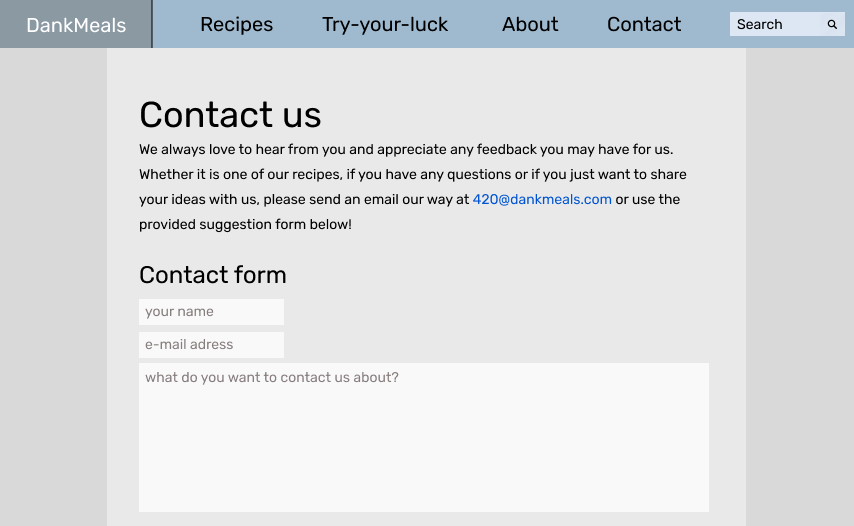
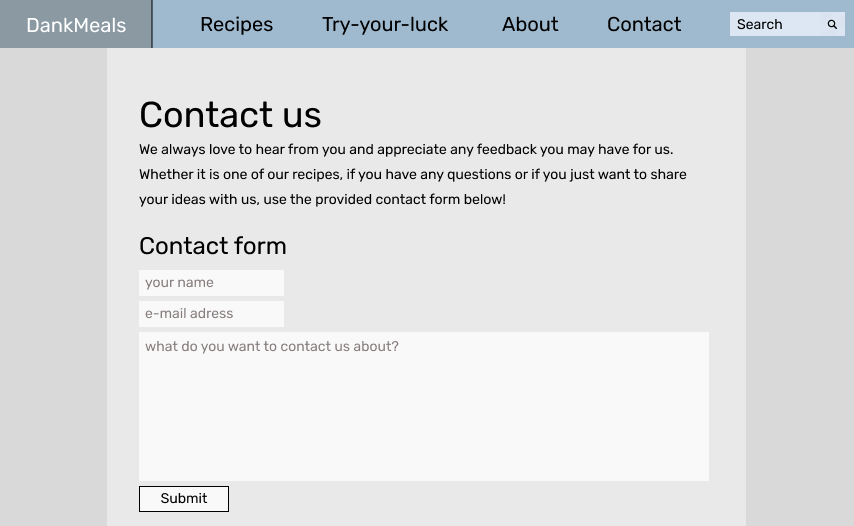
Many changes to content and fixed mockups

diff --git a/deliverable_P2/p2.html b/deliverable_P2/p2.html
@@ -100,14 +100,15 @@
                 change the color to a darker shade so the user will immidiately understand
                 which subpage they navigate to before clicking. The recipe section will 
                 be a dropdown menu with the highlighted subpage will change to an even 
-                arker shade than on the navbar. The try-your-luck button will be a big 
+                darker shade than on the navbar. The try-your-luck button will be a big 
                 red button which encourages anyone to click it out of excitement.
                 These design choices are made to make the website look nice and make
-                it recognizable and easy to navigate. The mockups provided in later sections
-                 showcase all these stylistic elements.
+                it recognizable and easy to navigate.The mockups provided in later sections
+                showcase all these stylistic elements. A mockup of the navigation bar is shown in Figure 1. 
             </p>
             <img src = "img/mockups/navbar_dropdown.png" alt="Homepage" width=540px>
-
+                
+            <p style="margin-top: 5px;text-align:center;font-style: italic;">Figure 1: Mockup of navigation bar</p>
             <p>
                 Specific styling for the website:
             </p>
@@ -168,12 +169,12 @@
 
                 </li>
                 <li>
-                    Logo: The logo will be the leftmost element on the navbar
+                    Logo: The logo will be the leftmost element on the navbar.
                 </li>
                 <li>
                     Links: The logo will be a clickable link which takes the user to the home
                     page. The navbar will be made up of clickable links to respective pages,
-                    as will the dropdown menu
+                    as will the dropdown menu.
 
                 </li>
                 <li>
@@ -181,6 +182,9 @@
                     in the navbar will change the tab to a darker shade. Hovering over tabs in 
                     the dropdown menu will darken the shade even further.
 
+                </li>
+                <li>
+                    Title: In general, the titles for a page will start 60px from the bottom of the navbar
                 </li>
             </ul>
 
@@ -198,74 +202,131 @@
             <p> Each page will have a banner along the top of the page where it will be possible to navigate to other pages. </p>
             <ol>
                 <li> <h3> The homepage </h3> <!-- Add url extension for the page -->
-                    <img src = "img/mockups/homepage.png" alt="Homepage" width=540px>
+                
                     <p> The homepage is the first page the users sees upon entering the website.
-                    This page will contain the name "DankMeals" as well as a "meal-of-the-day" box with an image of the meal
-                    and an internal link to the recipe for that meal.</p>
+                        This page will contain a "Meal of the Day" with an image of the meal, 
+                        and an internal link to the recipe for that meal. A mockup of the page is shown in Figure 2. 
+                        The size of the image is 475x300px, and has a margin of 18px from the body.
+                        The name of the meal is a clickable link, which leads to the recipe. The recipe changes
+                        every day, where the possible recipes are the ones that exist on the web-page. They are looped
+                        through, so that they will repeat after all have been shown.
+                    </p>
 
-                    <p> Since the goal of the website is to get students to do more cooking at home while maintaining a busy schedule,
-                    the homepage should not be too cluttered or contain too much content. We opted for a minimalistic and clean homepage
-                    to make it as accesible as possible.</p></li>
+                    <p> Since the goal of the website is to get students to do more cooking at 
+                        home while maintaining a busy schedule,
+                        the homepage should not be too cluttered or contain too much content.
+                        We opted for a minimalistic and clean homepage
+                        to make it as accessible as possible. </p>
+                
+                    <img src = "img/mockups/homepage.png" alt="Mockup of homepage" width=540px>
+                    <p style="margin-top: 5px;text-align:center;font-style: italic;">Figure 2:
+                         Mockup of home page</p>
+
+                    </li>
+                    
 
                 <li>
                     <h3> About us </h3> <!-- Add url extension for the page -->
-                    <img src = "img/mockups/about.png" alt = "About us page" width = 540px>
-                    <p> The page about us will quite simply be about us, the project and its goals.</p>
+                    
+                    <p> The page about us will quite simply be about us, the project and its goals. 
+                        A mockup of this page is shown in Figure 3.
+                    </p>
 
-                    <p> The backstory of the project as well as its long-term goal, the different people involved and donors will all be included on this page.
-                        While the page itself will maintain a simple and clean look, there will be a significant amount of content on this pages
+                    <p> The backstory of the project as well as its long-term goal, the different
+                        people involved and donors will all be included on this page.
+                        While the page itself will maintain a simple and clean look, there
+                        will be a significant amount of content on this pages
                         compared to the homepage. </p>
+                    <img src = "img/mockups/about.png" alt = "Mockup of about us page" width = 540px>
+                    <p style="margin-top: 5px;text-align:center;font-style: italic;">Figure 3:
+                         Mockup of about us page</p>
                 </li>
 
                 <li>
                     <h3> Contact </h3> <!-- Add url extension for the page -->
-                    <img src="img/mockups/contact.png" alt="Contact us page" width = 540px>
-                    <p> There will be a form users can fill out with a message in order to contact us.</p>
+                    
+                    <p> This page contains a form users can fill out in 
+                        order to contact us. A mockup of the page is shown in Figure 4. The form elements are three text fields. There will be rules
+                        to forbid submitting with an empty field. After submission the user will get an alert saying 
+                         "Submission recieved".
+                    </p>
+
+                    <img src="img/mockups/contact.png" alt="Mockup of contact us page" width = 540px>
+                    <p style="margin-top: 5px;text-align:center;font-style: italic;">Figure 4: 
+                        Mockup of contact page</p>
                 </li>
 
                 <li>
                     <h3> Recipes </h3> <!-- Add url extension for the page -->
-                    <!-- Mockup picture goes here -->
-                    <p> The page for recipes will contain
-                        <ul>
-                            <li> links to the three different recipe "repositories", <!-- See below--> </li>
-                            <li> a link to a specialized contact form where users will be able to send in suggestions for recipes.</li>
-                        </ul>
-                    </p>
+                    <p> The page for recipes will contain links to the three different recipe "repositories", 
+                        as well as a link to a contact form where users will be able to send in suggestions for recipes.
+                        A mockup of this page is shown in Figure 6. Below the links to the "repositories" are images showing
+                        examples from related food. These images (which there are three of), are 200x200px. The links plus images
+                        will be places on the page such that they have equal amount of empty space between them. 
 
-                    <p> There will be explanations for what the subpages contain, i.e. what kinds of recipes the user can expect
-                        from the three recipe "repositories" and what the suggestions form is used for. </p>
+                    </p>
+                    
+                    <img src="img/mockups/recipe.png" alt="Mockup of recipes page" width = 540px>
+                     <p style="margin-top: 5px;text-align:center;font-style: italic;">Figure 6: 
+                            Mockup of recipes page</p>
+
+                </li>
+                <li>
+                    <h3>Recipe example</h3>
+                        <p>The recipe pages will contain a white box which contains the ingredients. The 
+                            height of the box fits the text of the ingredients. The width is 250px.
+                            The other part of the page is shifted to the right. An image of the finished meal will
+                            be 500px wide (the height can depend on the image's ratio). A mockup of this is shown in Figure 6.
+                            Inside the white box containing the ingredients, there will also be a text field where the user can enter
+                            how many persons the recipe should be for (4 is default). 
+                        </p>
+                        <p> The box with the ingredients should stay fixed on the page, even if one has to scroll down due to
+                            lengthy instructions.
+                        </p>
+                        <img src="img/mockups/recipe_example.png" alt="Mockup of recipe" width = 540px>
+                        <p style="margin-top: 5px;text-align:center;font-style: italic;">Figure 6: 
+                            Mockup of recipe example</p>
                 </li>
 
                 <li>
                     <h3> Recipe sub-pages </h3> <!-- Add url extensions for each page -->
-                    <img src="img/mockups/recipe_subpage.png" alt="Recipe subpage" width = 540px>
-                    <p> There are three recipe sub-pages, containing recipes for different settings. They are
-                        </p>
-                    <p> The recipe sub-pages will all have the same structure and design. They will contain a list of all the relevant recipes.
-                        Each item in the list will have the name of the meal, an image of the finished meal and a short description.
-                        Both the name of the meal and the image will link to the actual recipe. </p>
-                    <p>Each recipe should have a padding that will change colour (to grey) when hovered. 
-                       Each recipe image should have a height and width of 250px, with 50px margins and paddings. </p> 
+
+                    <p> The recipe sub-pages (which there are three of) will all have the same structure and design. They will contain a list of all the relevant recipes, with 
+                        three recipe links on each row.
+                        Each item in the list will have the name of the meal, and image of the finished meal. 
+                        The entire box, which contains the name and image, will be a link to the recipe. 
+                        A mockup of this is shown in Figure 7. </p>
+
+                    <p>Each box will have a height of 200px and a width of 170px. The font size 
+                        of the name of the recipe will be 14pt. The images of the recipes within the box will be 160x100px (to make room for
+                        the name of the recipe). The border color, as well as the font color, of the box that is hoved over will change from 
+                        black to blue (#9FBACE), as shown in Figure 7 (for the recipe in the middle, top row) .
+                    </p>
+                    
+                    <img src="img/mockups/recipe_subpage.png" alt="Mockup of recipe subpage" width = 540px>
+                    <p style="margin-top: 5px;text-align:center;font-style: italic;">Figure 7:
+                         Mockup of recipe subpage</p> 
                 </li>
 
                 <li>
                     <h3> Suggestion form </h3> <!-- Add url extension for the page -->
-                    <img src="img/mockups/suggestions.png" alt="Suggestions page" width = 540px>
+                    
                     <p> The suggestion form page will be structured quite similarly to the contact page,
-                        but will include the fields
-                        <ul>
-                            <li> Name of the meal. </li>
-                            <li> Serving size. </li>
-                            <li> Ingredient (1 ingredient per field. Users will be able to add more ingredient fields). </li>
-                            <li> Instructions. </li>
-                        </ul>
+                        but will also include the text fields name of the meal, serving size, ingredient and instructions. The user 
+                        can only fill one ingredient per field, but can add additional fields by pressing a button if needed. 
+                        Also here the user will have to have entered text to be able to submitt. 
+                        A mockup is shown in Figure 8. When the user submitts, an alert will appear saying "Submission recieved".  
                     </p>
+                        <img src="img/mockups/suggestions.png" alt="Mockup of suggestions page" width = 540px>
+                    <p style="margin-top: 5px;text-align:center;font-style: italic;">Figure 8:
+                         Mockup of suggestion form</p>
+
+                    
                 </li>
 
                 <li>
-                    <h3> Try your luck </h3> <!-- Add url extension for the page -->
-                    <img src="img/mockups/try_your_luck1.png" alt="Try your luck with generating button" width = 540px>
+                    <h3> Try-your-luck </h3> <!-- Add url extension for the page -->
+                
                     <p>
                         The "try-your-luck" page will be centered around one mechanic: generating random meals/drinks by pairing
                         random ingredients together. The users will be able to select either meals or drinks as the subject of the mechanic.
@@ -273,17 +334,27 @@
                         strange meals or drinks.
                     </p>
                     <p>The red big button is supposed to be centre of attention at this site and should therefore occupy some space. 
-                        The height and width of the button will be set to 350px each, with 20px margins and paddings.
-                        When hovered the padding of the button should change colour from the color of the background to grey, and when pushed the user will hear a sound.  </p>
-                    <img src="img/mockups/try_your_luck2.png" alt="Try your luck result after generation" width = 600px>
-                    <p>
-                        There will be a number of fields (read-only), each of which will contain an ingredient once the meal or drink
-                        has been randomly generated. This will be accomplished by simple javascript code and a predefined list of ingredients
-                        and a few rules for what cannot be combined.
-                    </p>
-                    Try-your-luck selected: Dark Grey #A4A3A3
-                    Try-your-luck unselected: Light Grey #D9D9D9
+                        The height and width of the button will be set to 350px each, with 20px margins and paddings. A mockup of this is shown in
+                        Figure 9. If meal is selected as the type to generate for, the box surrounding it has a color of #A4A3A3, while if it 
+                        is not selected it has a color of #D9D9D9.
+                        When hovered the padding of the button should change colour from the color of the background to 
+                        grey (for a shadow-like effect), and when pushed the user will hear a short sound. </p>
+
+                    <img src="img/mockups/try_your_luck1.png" alt="Try your luck with generating button" width = 540px>
+                    <p style="margin-top: 5px;text-align:center;font-style: italic;">Figure 9:
+                             Mockup of try-your-luck before button press.</p>
                     
+                        There will be text fields (read-only), each of which will contain an ingredient once the meal or drink
+                        has been randomly generated. For the generating meal there will be three text fields, and  
+                        for generating drinks there will be two text fiels.
+                        This will be accomplished by simple javascript code and a predefined list of ingredients
+                        and a few rules for what cannot be combined.  A mockup of the page after pressing the button is shown in Figure 10.
+                    </p>
+                    <img src="img/mockups/try_your_luck2.png" alt="Try your luck result after generation" width = 540px>
+                    <p style="margin-top: 5px;text-align:center;font-style: italic;">Figure 10: 
+                            Mockup of try-your-luck after button press</p>
+                    <p>
+                
                 </li>
             </ol>
             <hr>
@@ -319,13 +390,7 @@
                         ingredient by two if the portion size doubles. Gry and Ane is in
                         charge of this section.
                     </li>
-                    <li>
-                        When inside a recipe, the user will be presented with a drink
-                        (and a link to where the recipe for this drink is, unless it can be
-                        purchased ready to drink), which is randomly generated from an array
-                        with drinks that fit that type of meat (e.g. a type of cheap red
-                        wine with steak). Solfrid is in charge of this section.
-                    </li>
+                   
                     <li>
                         Recipe of the day; Located on the home-page, it iterates though all
                         the meals stores in the array, and shows one for a given day. Can
@@ -354,7 +419,8 @@
                     <li>relax.html</li>
                     <li>suggestions.html</li>
                 </ul>
-                <li>try-your-luck.html</li>
+                <li>try_your_luck_meal.html</li>
+                <li>try_your_luck_drink.html</li>
                 <li>images/</li>
                 <ul>
                     <li>chicken.png</li>

diff --git a/style.css b/style.css
@@ -10,6 +10,7 @@ body {
 
 }
 
+
 hr {
     border-width: 2px;
     border-style: solid;
@@ -32,4 +33,5 @@ td, th {
     border: 1px solid #dddddd;
     text-align: left;
     padding: 8px;
-  }
+}
+
